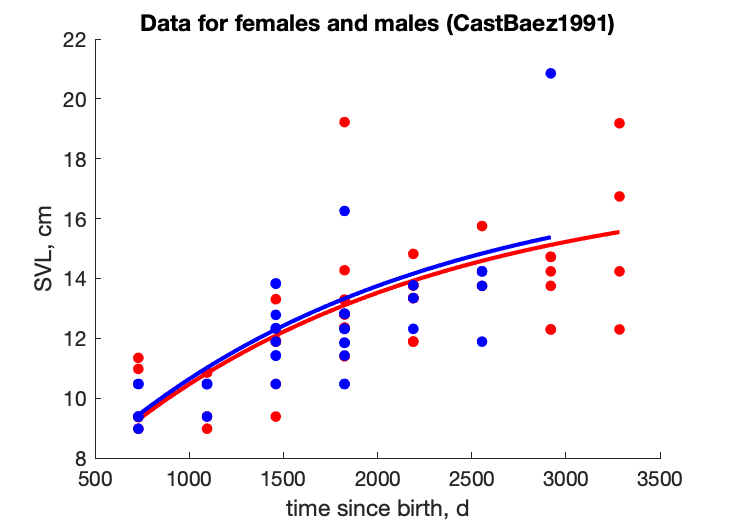
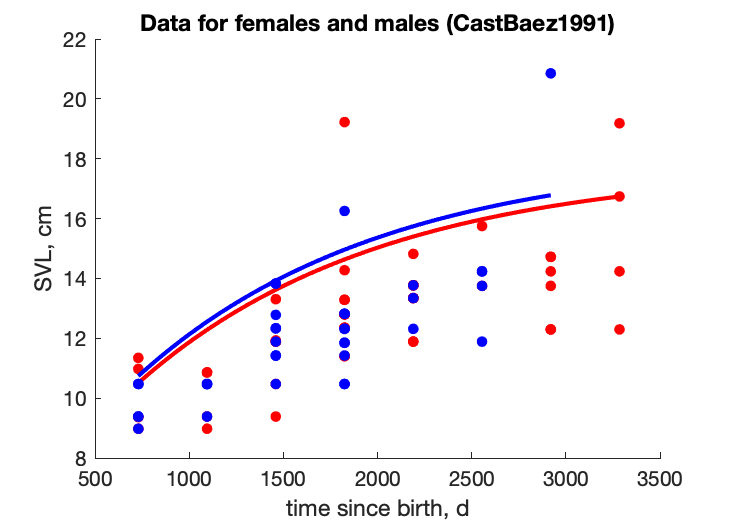
unfinished estimation without weights for tL

Changed region(s): [[0.1811, 0.3685, 0.845, 0.7985], [0.7846, 0.4299, 0.845, 0.4607]]

diff --git a/Gallotia_stehlini_res.html b/Gallotia_stehlini_res.html
@@ -44,7 +44,7 @@
   </div>
 
   <div class="par">
-  <h4>COMPLETE = 2.4; MRE =    0.067; SMSE =    0.073 </h4>
+  <h4>COMPLETE = 2.4; MRE =    0.068; SMSE =    0.069 </h4>
   </div>
 
   <p class="clear"></p>
@@ -53,27 +53,27 @@
   <h2>Data & predictions</h2>
   <TABLE id="prd">
     <TR  class="head"><TH>data</TH> <TH>prd</TH> <TH>RE</TH>  <TH>symbol</TH> <TH>units</TH> <TH>description</TH> </TR>
-    <TR><TD> 56</TD> <TD>63.49</TD> <TD>0.1338</TD> <TD>ab</TD> <TD>d</TD> <TD>age at birth</TD></TR>
-    <TR><TD>1050</TD> <TD>1127</TD> <TD>0.07368</TD> <TD>tp</TD> <TD>d</TD> <TD>time since birth at puberty</TD></TR>
-    <TR><TD>4350</TD> <TD>4408</TD> <TD>0.01332</TD> <TD>am</TD> <TD>d</TD> <TD>life span</TD></TR>
-    <TR><TD>5.21</TD> <TD>4.963</TD> <TD>0.04736</TD> <TD>Lb</TD> <TD>cm</TD> <TD>SVL at hatching</TD></TR>
-    <TR><TD>13.5</TD> <TD>10.96</TD> <TD>0.1883</TD> <TD>Lp</TD> <TD>cm</TD> <TD>SVL at puberty</TD></TR>
-    <TR><TD>14.6</TD> <TD>14.37</TD> <TD>0.01558</TD> <TD>Lpm</TD> <TD>cm</TD> <TD>SVL at puberty males</TD></TR>
-    <TR><TD> 17</TD> <TD>17.36</TD> <TD>0.02094</TD> <TD>Li</TD> <TD>cm</TD> <TD>ultimate SVL</TD></TR>
-    <TR><TD> 22</TD> <TD>17.66</TD> <TD>0.1975</TD> <TD>Lim</TD> <TD>cm</TD> <TD>ultimate SVL males</TD></TR>
-    <TR><TD>2.12</TD> <TD>2.081</TD> <TD>0.01854</TD> <TD>Wwb</TD> <TD>g</TD> <TD>wet weight of hatchlings</TD></TR>
-    <TR><TD> 88</TD> <TD>88.97</TD> <TD>0.01104</TD> <TD>Wwi</TD> <TD>g</TD> <TD>ultimate wet weight</TD></TR>
-    <TR><TD>94.59</TD> <TD>93.89</TD> <TD>0.007451</TD> <TD>Wwim</TD> <TD>g</TD> <TD>ultimate wet males</TD></TR>
-    <TR><TD>0.02685</TD> <TD>0.02624</TD> <TD>0.02277</TD> <TD>Ri</TD> <TD>#/d</TD> <TD>maximum reprod rate</TD></TR>
-    <TR><TD colspan="2">see figure</TD> <TD>0.09074</TD> <TD>tL</TD> <TD colspan="2">time since birth, <font color="blue"><i>vs.</i></font> SVL</TD>
-    <TR><TD colspan="2">see figure</TD> <TD>0.1002</TD> <TD>tLm</TD> <TD colspan="2">time since birth, <font color="blue"><i>vs.</i></font> SVL</TD>
-    <TR class="psd"><TD>0.02</TD> <TD>0.07039</TD> <TD>2.519</TD> <TD>psd.v</TD> <TD>cm/d</TD> <TD>energy conductance</TD></TR>
-    <TR class="psd"><TD>0.8</TD> <TD>0.5603</TD> <TD>0.2996</TD> <TD>psd.kap</TD> <TD>-</TD> <TD>allocation fraction to soma</TD></TR>
+    <TR><TD> 56</TD> <TD>62.82</TD> <TD>0.1218</TD> <TD>ab</TD> <TD>d</TD> <TD>age at birth</TD></TR>
+    <TR><TD>1050</TD> <TD>1079</TD> <TD>0.02753</TD> <TD>tp</TD> <TD>d</TD> <TD>time since birth at puberty</TD></TR>
+    <TR><TD>4350</TD> <TD>4446</TD> <TD>0.02216</TD> <TD>am</TD> <TD>d</TD> <TD>life span</TD></TR>
+    <TR><TD>5.21</TD> <TD>5.039</TD> <TD>0.03281</TD> <TD>Lb</TD> <TD>cm</TD> <TD>SVL at hatching</TD></TR>
+    <TR><TD>13.5</TD> <TD>12.21</TD> <TD>0.09526</TD> <TD>Lp</TD> <TD>cm</TD> <TD>SVL at puberty</TD></TR>
+    <TR><TD>14.6</TD> <TD>14.24</TD> <TD>0.02444</TD> <TD>Lpm</TD> <TD>cm</TD> <TD>SVL at puberty males</TD></TR>
+    <TR><TD> 17</TD> <TD>17.75</TD> <TD>0.04412</TD> <TD>Li</TD> <TD>cm</TD> <TD>ultimate SVL</TD></TR>
+    <TR><TD> 22</TD> <TD>18.16</TD> <TD>0.1746</TD> <TD>Lim</TD> <TD>cm</TD> <TD>ultimate SVL males</TD></TR>
+    <TR><TD>2.12</TD> <TD>2.012</TD> <TD>0.05077</TD> <TD>Wwb</TD> <TD>g</TD> <TD>wet weight of hatchlings</TD></TR>
+    <TR><TD> 88</TD> <TD>87.95</TD> <TD>0.0005209</TD> <TD>Wwi</TD> <TD>g</TD> <TD>ultimate wet weight</TD></TR>
+    <TR><TD>94.59</TD> <TD>94.53</TD> <TD>0.0006455</TD> <TD>Wwim</TD> <TD>g</TD> <TD>ultimate wet males</TD></TR>
+    <TR><TD>0.02685</TD> <TD>0.02661</TD> <TD>0.009005</TD> <TD>Ri</TD> <TD>#/d</TD> <TD>maximum reprod rate</TD></TR>
+    <TR><TD colspan="2">see figure</TD> <TD>0.164</TD> <TD>tL</TD> <TD colspan="2">time since birth, <font color="blue"><i>vs.</i></font> SVL</TD>
+    <TR><TD colspan="2">see figure</TD> <TD>0.188</TD> <TD>tLm</TD> <TD colspan="2">time since birth, <font color="blue"><i>vs.</i></font> SVL</TD>
+    <TR class="psd"><TD>0.02</TD> <TD>0.06574</TD> <TD>2.287</TD> <TD>psd.v</TD> <TD>cm/d</TD> <TD>energy conductance</TD></TR>
+    <TR class="psd"><TD>0.8</TD> <TD>0.6484</TD> <TD>0.1895</TD> <TD>psd.kap</TD> <TD>-</TD> <TD>allocation fraction to soma</TD></TR>
     <TR class="psd"><TD>0.95</TD> <TD>0.95</TD> <TD>  0</TD> <TD>psd.kap_R</TD> <TD>-</TD> <TD>reproduction efficiency</TD></TR>
-    <TR class="psd"><TD> 18</TD> <TD>10.33</TD> <TD>0.426</TD> <TD>psd.p_M</TD> <TD>J/d.cm^3</TD> <TD>vol-spec som maint</TD></TR>
-    <TR class="psd"><TD>0.002</TD> <TD>0.0003964</TD> <TD>0.8018</TD> <TD>psd.k_J</TD> <TD>1/d</TD> <TD>maturity maint rate coefficient</TD></TR>
-    <TR class="psd"><TD>0.8</TD> <TD>0.7989</TD> <TD>0.00141</TD> <TD>psd.kap_G</TD> <TD>-</TD> <TD>growth efficiency</TD></TR>
-    <TR class="psd"><TD>0.3</TD> <TD>0.3014</TD> <TD>0.004728</TD> <TD>psd.k</TD> <TD>-</TD> <TD>maintenance ratio</TD></TR>
+    <TR class="psd"><TD> 18</TD> <TD>14.02</TD> <TD>0.2211</TD> <TD>psd.p_M</TD> <TD>J/d.cm^3</TD> <TD>vol-spec som maint</TD></TR>
+    <TR class="psd"><TD>0.002</TD> <TD>0.0004997</TD> <TD>0.7501</TD> <TD>psd.k_J</TD> <TD>1/d</TD> <TD>maturity maint rate coefficient</TD></TR>
+    <TR class="psd"><TD>0.8</TD> <TD>0.7979</TD> <TD>0.002638</TD> <TD>psd.kap_G</TD> <TD>-</TD> <TD>growth efficiency</TD></TR>
+    <TR class="psd"><TD>0.3</TD> <TD>0.2804</TD> <TD>0.06536</TD> <TD>psd.k</TD> <TD>-</TD> <TD>maintenance ratio</TD></TR>
   </TABLE>
   </div>
 
@@ -83,26 +83,26 @@
     <TR class="head"><TH>symbol</TH> <TH>units</TH> <TH>value</TH>  <TH>free</TH> <TH>description</TH> </TR>
     <TR><TD>T_ref</TD> <TD>K</TD> <TD>293.1</TD> <TD>0</TD> <TD>Reference temperature</TD></TR>
     <TR><TD>T_A</TD> <TD>K</TD> <TD>8000</TD> <TD>0</TD> <TD>Arrhenius temperature</TD></TR>
-    <TR><TD>z</TD> <TD>-</TD> <TD>4.247</TD> <TD>1</TD> <TD>zoom factor for females</TD></TR>
+    <TR><TD>z</TD> <TD>-</TD> <TD>4.186</TD> <TD>1</TD> <TD>zoom factor for females</TD></TR>
     <TR><TD>F_m</TD> <TD>l/d.cm^2</TD> <TD>6.5</TD> <TD>0</TD> <TD>{F_m}, max spec searching rate</TD></TR>
     <TR><TD>kap_X</TD> <TD>-</TD> <TD>0.8</TD> <TD>0</TD> <TD>digestion efficiency of food to reserve</TD></TR>
     <TR><TD>kap_P</TD> <TD>-</TD> <TD>0.1</TD> <TD>0</TD> <TD>faecation efficiency of food to faeces</TD></TR>
-    <TR><TD>v</TD> <TD>cm/d</TD> <TD>0.07039</TD> <TD>1</TD> <TD>energy conductance</TD></TR>
-    <TR><TD>kap</TD> <TD>-</TD> <TD>0.5603</TD> <TD>1</TD> <TD>allocation fraction to soma</TD></TR>
+    <TR><TD>v</TD> <TD>cm/d</TD> <TD>0.06574</TD> <TD>1</TD> <TD>energy conductance</TD></TR>
+    <TR><TD>kap</TD> <TD>-</TD> <TD>0.6484</TD> <TD>1</TD> <TD>allocation fraction to soma</TD></TR>
     <TR><TD>kap_R</TD> <TD>-</TD> <TD>0.95</TD> <TD>0</TD> <TD>reproduction efficiency</TD></TR>
-    <TR><TD>p_M</TD> <TD>J/d.cm^3</TD> <TD>10.33</TD> <TD>1</TD> <TD>[p_M], vol-spec somatic maint</TD></TR>
+    <TR><TD>p_M</TD> <TD>J/d.cm^3</TD> <TD>14.02</TD> <TD>1</TD> <TD>[p_M], vol-spec somatic maint</TD></TR>
     <TR><TD>p_T</TD> <TD>J/d.cm^2</TD> <TD>  0</TD> <TD>0</TD> <TD>{p_T}, surf-spec somatic maint</TD></TR>
-    <TR><TD>k_J</TD> <TD>1/d</TD> <TD>0.0003964</TD> <TD>1</TD> <TD>maturity maint rate coefficient</TD></TR>
-    <TR><TD>E_G</TD> <TD>J/cm^3</TD> <TD>7856</TD> <TD>1</TD> <TD>[E_G], spec cost for structure</TD></TR>
-    <TR><TD>E_Hb</TD> <TD>J</TD> <TD>1.148e+04</TD> <TD>1</TD> <TD>maturity at birth</TD></TR>
-    <TR><TD>E_Hp</TD> <TD>J</TD> <TD>1.896e+05</TD> <TD>1</TD> <TD>maturity at puberty</TD></TR>
-    <TR><TD>h_a</TD> <TD>1/d^2</TD> <TD>9.969e-10</TD> <TD>1</TD> <TD>Weibull aging acceleration</TD></TR>
+    <TR><TD>k_J</TD> <TD>1/d</TD> <TD>0.0004997</TD> <TD>1</TD> <TD>maturity maint rate coefficient</TD></TR>
+    <TR><TD>E_G</TD> <TD>J/cm^3</TD> <TD>7866</TD> <TD>1</TD> <TD>[E_G], spec cost for structure</TD></TR>
+    <TR><TD>E_Hb</TD> <TD>J</TD> <TD>7527</TD> <TD>1</TD> <TD>maturity at birth</TD></TR>
+    <TR><TD>E_Hp</TD> <TD>J</TD> <TD>1.786e+05</TD> <TD>1</TD> <TD>maturity at puberty</TD></TR>
+    <TR><TD>h_a</TD> <TD>1/d^2</TD> <TD>1.025e-09</TD> <TD>1</TD> <TD>Weibull aging acceleration</TD></TR>
     <TR><TD>s_G</TD> <TD>-</TD> <TD>0.0001</TD> <TD>0</TD> <TD>Gompertz stress coefficient</TD></TR>
-    <TR><TD>E_Hpm</TD> <TD>J</TD> <TD>5.131e+05</TD> <TD>1</TD> <TD>maturity at puberty for males</TD></TR>
-    <TR><TD>del_M</TD> <TD>-</TD> <TD>0.2447</TD> <TD>1</TD> <TD>shape coefficient</TD></TR>
+    <TR><TD>E_Hpm</TD> <TD>J</TD> <TD>3.017e+05</TD> <TD>1</TD> <TD>maturity at puberty for males</TD></TR>
+    <TR><TD>del_M</TD> <TD>-</TD> <TD>0.2358</TD> <TD>1</TD> <TD>shape coefficient</TD></TR>
     <TR><TD>f</TD> <TD>-</TD> <TD>  1</TD> <TD>0</TD> <TD>scaled functional response for 0-var data</TD></TR>
     <TR><TD>f_tL</TD> <TD>-</TD> <TD>  1</TD> <TD>0</TD> <TD>scaled functional response for tL data</TD></TR>
-    <TR><TD>z_m</TD> <TD>-</TD> <TD>4.321</TD> <TD>1</TD> <TD>zoom factor for males</TD></TR>
+    <TR><TD>z_m</TD> <TD>-</TD> <TD>4.282</TD> <TD>1</TD> <TD>zoom factor for males</TD></TR>
   </TABLE>
   </div>
 

diff --git a/pars_init_Gallotia_stehlini.m b/pars_init_Gallotia_stehlini.m
@@ -7,28 +7,28 @@ par.T_ref = 293.15;   free.T_ref = 0;   units.T_ref = 'K';        label.T_ref = 
 
 %% core primary parameters 
 par.T_A = 8000;       free.T_A   = 0;   units.T_A = 'K';          label.T_A = 'Arrhenius temperature'; 
-par.z = 4.2453;       free.z     = 1;   units.z = '-';            label.z = 'zoom factor for females'; 
+par.z = 4.1857;       free.z     = 1;   units.z = '-';            label.z = 'zoom factor for females'; 
 par.F_m = 6.5;        free.F_m   = 0;   units.F_m = 'l/d.cm^2';   label.F_m = '{F_m}, max spec searching rate'; 
 par.kap_X = 0.8;      free.kap_X = 0;   units.kap_X = '-';        label.kap_X = 'digestion efficiency of food to reserve'; 
 par.kap_P = 0.1;      free.kap_P = 0;   units.kap_P = '-';        label.kap_P = 'faecation efficiency of food to faeces'; 
-par.v = 0.065561;     free.v     = 1;   units.v = 'cm/d';         label.v = 'energy conductance'; 
-par.kap = 0.62447;    free.kap   = 1;   units.kap = '-';          label.kap = 'allocation fraction to soma'; 
+par.v = 0.065744;     free.v     = 1;   units.v = 'cm/d';         label.v = 'energy conductance'; 
+par.kap = 0.64837;    free.kap   = 1;   units.kap = '-';          label.kap = 'allocation fraction to soma'; 
 par.kap_R = 0.95;     free.kap_R = 0;   units.kap_R = '-';        label.kap_R = 'reproduction efficiency'; 
-par.p_M = 10.0878;    free.p_M   = 1;   units.p_M = 'J/d.cm^3';   label.p_M = '[p_M], vol-spec somatic maint'; 
+par.p_M = 14.0195;    free.p_M   = 1;   units.p_M = 'J/d.cm^3';   label.p_M = '[p_M], vol-spec somatic maint'; 
 par.p_T = 0;          free.p_T   = 0;   units.p_T = 'J/d.cm^2';   label.p_T = '{p_T}, surf-spec somatic maint'; 
-par.k_J = 0.00038246;  free.k_J   = 1;   units.k_J = '1/d';        label.k_J = 'maturity maint rate coefficient'; 
-par.E_G = 7863.4837;  free.E_G   = 1;   units.E_G = 'J/cm^3';     label.E_G = '[E_G], spec cost for structure'; 
-par.E_Hb = 7.315e+03; free.E_Hb  = 1;   units.E_Hb = 'J';         label.E_Hb = 'maturity at birth'; 
-par.E_Hp = 1.349e+05; free.E_Hp  = 1;   units.E_Hp = 'J';         label.E_Hp = 'maturity at puberty'; 
-par.h_a = 1.113e-09;  free.h_a   = 1;   units.h_a = '1/d^2';      label.h_a = 'Weibull aging acceleration'; 
+par.k_J = 0.00049974;  free.k_J   = 1;   units.k_J = '1/d';        label.k_J = 'maturity maint rate coefficient'; 
+par.E_G = 7865.936;   free.E_G   = 1;   units.E_G = 'J/cm^3';     label.E_G = '[E_G], spec cost for structure'; 
+par.E_Hb = 7.527e+03; free.E_Hb  = 1;   units.E_Hb = 'J';         label.E_Hb = 'maturity at birth'; 
+par.E_Hp = 1.786e+05; free.E_Hp  = 1;   units.E_Hp = 'J';         label.E_Hp = 'maturity at puberty'; 
+par.h_a = 1.025e-09;  free.h_a   = 1;   units.h_a = '1/d^2';      label.h_a = 'Weibull aging acceleration'; 
 par.s_G = 0.0001;     free.s_G   = 0;   units.s_G = '-';          label.s_G = 'Gompertz stress coefficient'; 
 
 %% other parameters 
-par.E_Hpm = 3.937e+05; free.E_Hpm = 1;   units.E_Hpm = 'J';        label.E_Hpm = 'maturity at puberty for males'; 
-par.del_M = 0.24063;  free.del_M = 1;   units.del_M = '-';        label.del_M = 'shape coefficient'; 
+par.E_Hpm = 3.017e+05; free.E_Hpm = 1;   units.E_Hpm = 'J';        label.E_Hpm = 'maturity at puberty for males'; 
+par.del_M = 0.23581;  free.del_M = 1;   units.del_M = '-';        label.del_M = 'shape coefficient'; 
 par.f = 1;            free.f     = 0;   units.f = '-';            label.f = 'scaled functional response for 0-var data'; 
 par.f_tL = 1;         free.f_tL  = 0;   units.f_tL = '-';         label.f_tL = 'scaled functional response for tL data'; 
-par.z_m = 4.3197;     free.z_m   = 1;   units.z_m = '-';          label.z_m = 'zoom factor for males'; 
+par.z_m = 4.282;      free.z_m   = 1;   units.z_m = '-';          label.z_m = 'zoom factor for males'; 
 
 %% set chemical parameters from Kooy2010 
 [par, units, label, free] = addchem(par, units, label, free, metaData.phylum, metaData.class); 
